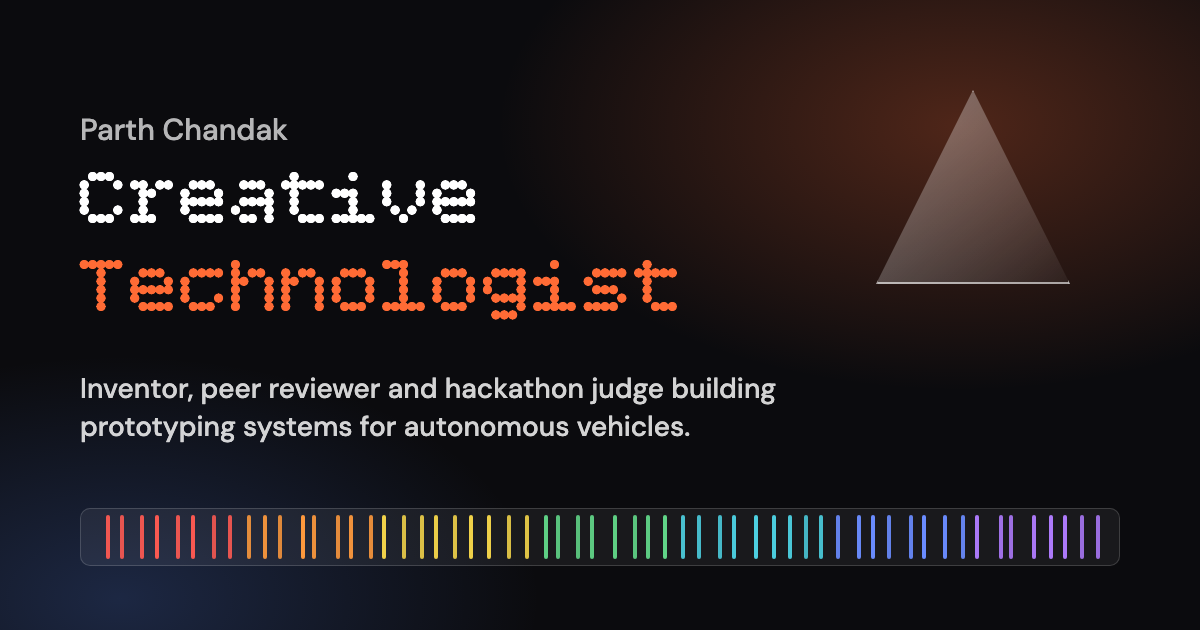
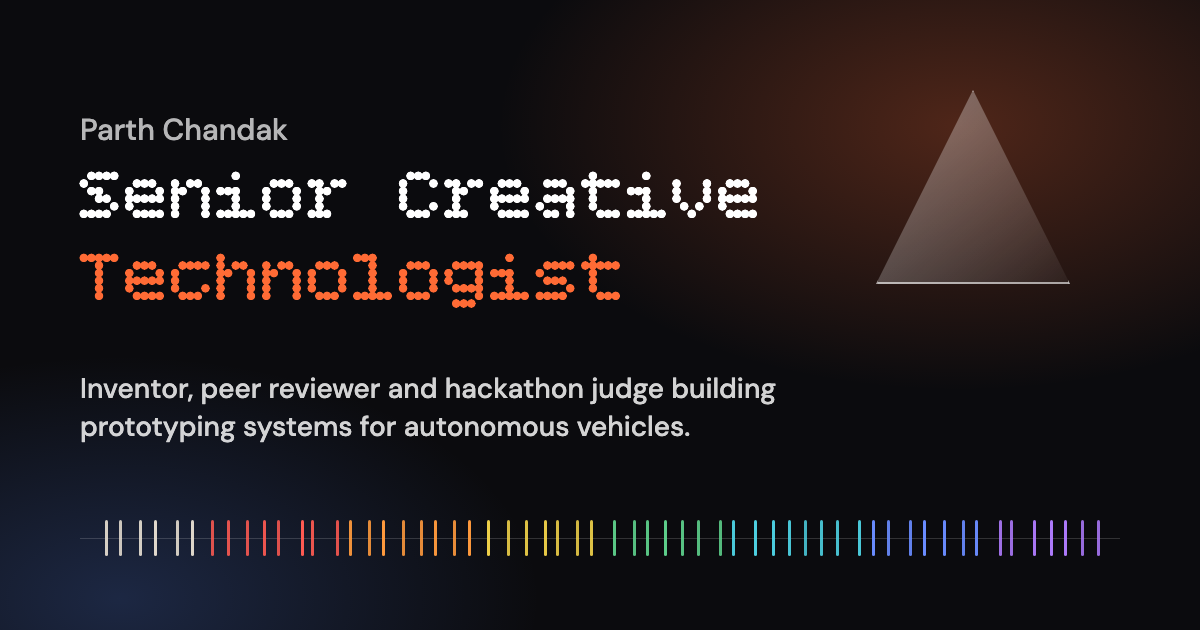
Two new Springer reviews, ACRT dated to SURCA 2017, share image says Senior
Discover Applied Sciences (Oct 6) and International Journal of Social Robotics (Oct 19) join
the peer reviews. The ACRT furnace work dates from the SURCA abstract and poster, Feb to Mar 2017.
The link preview image carries the Senior title and the eight band colours, with a version tag
so cached previews refresh.

diff --git a/src/data/timelineData.js b/src/data/timelineData.js
@@ -679,10 +679,10 @@ export const timelineDataByCategory = {
   judging: [
     {
         "title": "Peer Reviewer, Springer Nature",
-        "date": "February 2026 - September 2026",
+        "date": "February 2026 - October 2026",
         "category": "judging",
-        "location": "BMC, Discover and Humanities and Social Sciences Communications journals",
-        "description": "Certified peer reviews for Springer Nature journals: BMC Health Services Research (Feb 22, 2026), Discover Artificial Intelligence (Aug 11), Discover Education (Aug 23 and Sep 10), Humanities and Social Sciences Communications (Aug 23), Discover Sustainability (Sep 10) and Discover Oncology (Sep 18).",
+        "location": "BMC, Discover, Humanities and Social Sciences Communications and International Journal of Social Robotics",
+        "description": "Certified peer reviews for Springer Nature journals: BMC Health Services Research (Feb 22, 2026), Discover Artificial Intelligence (Aug 11), Discover Education (Aug 23 and Sep 10), Humanities and Social Sciences Communications (Aug 23), Discover Sustainability (Sep 10), Discover Oncology (Sep 18), Discover Applied Sciences (Oct 6) and International Journal of Social Robotics (Oct 19).",
         "typewriterTitle": "Reviewer",
         "typewriterPrefix": "I am a",
         "skills": [
@@ -846,7 +846,7 @@ export const timelineDataByCategory = {
     },
     {
         "title": "Center for Materials Research - ACRT Furnace System",
-        "date": "May 2018",
+        "date": "February 2017 - March 2017",
         "category": "projects",
         "location": "WSU Materials Research",
         "company": "WSU",

diff --git a/src/data/spectrum.js b/src/data/spectrum.js
@@ -101,6 +101,8 @@ export const spectrumBands = [
       { t: 2026.69, when: 'Sep 10, 2026', title: 'Discover Education, re-review', meta: 'Peer reviewer, Springer Nature' },
       { t: 2026.7, when: 'Sep 10, 2026', title: 'Discover Sustainability', meta: 'Peer reviewer, Springer Nature' },
       { t: 2026.72, when: 'Sep 18, 2026', title: 'Discover Oncology', meta: 'Peer reviewer, Springer Nature' },
+      { t: 2026.76, when: 'Oct 6, 2026', title: 'Discover Applied Sciences', meta: 'Peer reviewer, Springer Nature' },
+      { t: 2026.8, when: 'Oct 19, 2026', title: 'International Journal of Social Robotics', meta: 'Peer reviewer, Springer Nature' },
       { t: 2026.18, when: 'Mar 8, 2026', title: 'HackMerced XI', meta: 'Judge, MLH and UC Merced' },
       { t: 2026.32, when: 'Apr 26, 2026', title: 'LA Hacks 2026', meta: 'Invite-only judge, 1,000+ students' },
       { t: 2026.81, when: 'Oct 23-25, 2026', title: 'Cal Hacks 13.0', meta: 'Judge, San Francisco', future: true }
@@ -171,7 +173,7 @@ const findCard = (title) => {
   return bestScore >= 0.75 ? best.title : null;
 };
 
-// Lines that describe a group (one patent family, seven peer reviews) point at that group's single card
+// Lines that describe a group (one patent family, nine peer reviews) point at that group's single card
 const CARD_FOR_BAND = { patent: 'Audio Prioritization (US20260003563A1)' };
 const CARD_OVERRIDES = {
   'ICETAIA 2025, invited keynote': 'A Practical Framework for Rapid Prototyping and Fidelity in Product Development'

diff --git a/public/index.html b/public/index.html
@@ -19,14 +19,14 @@
 	<meta property="og:url" content="https://parthchandak.info/">
 	<meta property="og:title" content="Parth Chandak | Senior Creative Technologist">
 	<meta property="og:description" content="Inventor, peer reviewer and hackathon judge building prototyping systems for autonomous vehicles.">
-	<meta property="og:image" content="https://parthchandak.info/og-image.png">
+	<meta property="og:image" content="https://parthchandak.info/og-image.png?v=2">
 	<meta property="og:image:width" content="1200">
 	<meta property="og:image:height" content="630">
-	<meta property="og:image:alt" content="Parth Chandak, Creative Technologist, with a prism splitting light into a spectrum">
+	<meta property="og:image:alt" content="Parth Chandak, Senior Creative Technologist, with a prism splitting light into a spectrum">
 	<meta name="twitter:card" content="summary_large_image">
 	<meta name="twitter:title" content="Parth Chandak | Senior Creative Technologist">
 	<meta name="twitter:description" content="Inventor, peer reviewer and hackathon judge building prototyping systems for autonomous vehicles.">
-	<meta name="twitter:image" content="https://parthchandak.info/og-image.png">
+	<meta name="twitter:image" content="https://parthchandak.info/og-image.png?v=2">
 	<script type="application/ld+json">
 	{
 	  "@context": "https://schema.org",
